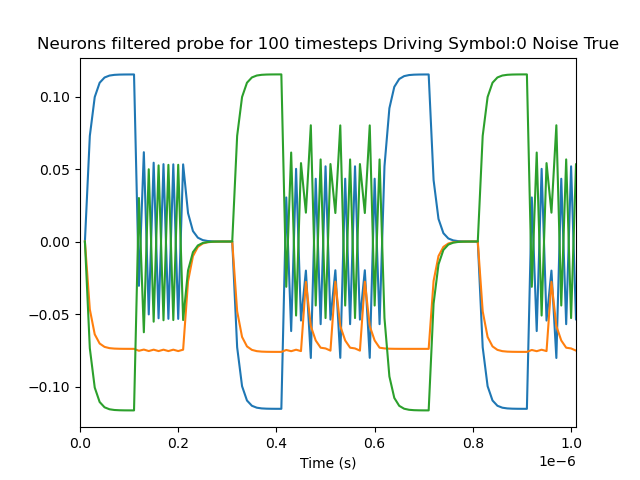
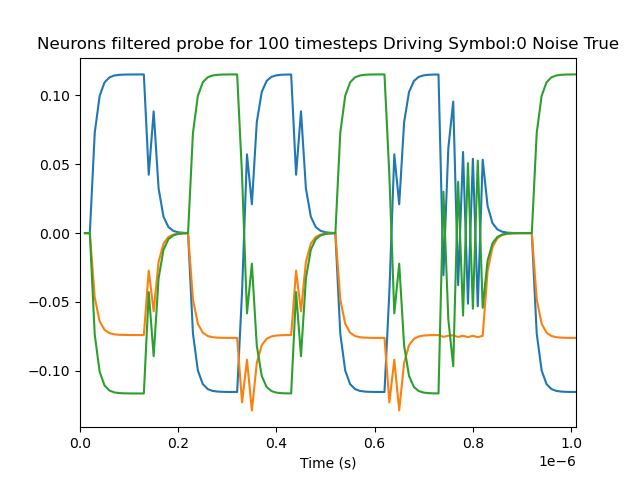
added synapse filter 2e-8

diff --git a/three-layers.py b/three-layers.py
@@ -105,7 +105,7 @@ with model:
 
 with model:
     nengo.Connection(input_signal, neurons, synapse=None)
-    nengo.Connection(neurons, neuronsL2, synapse=None)
+    nengo.Connection(neurons, neuronsL2, synapse=2e-8)
     nengo.Connection(neuronsL2,neuronsL3,synapse=None)
 
 
